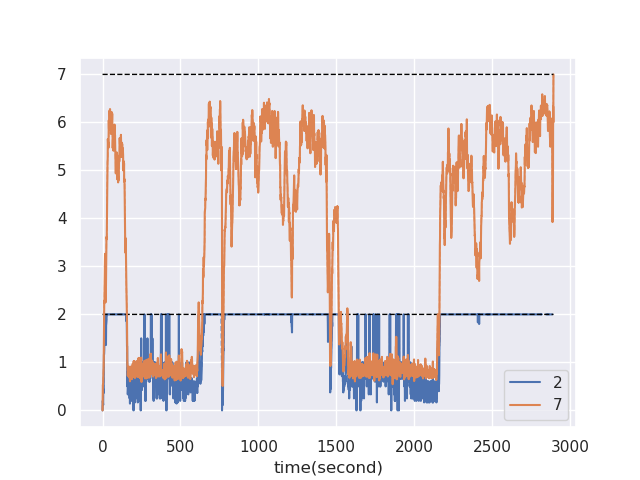
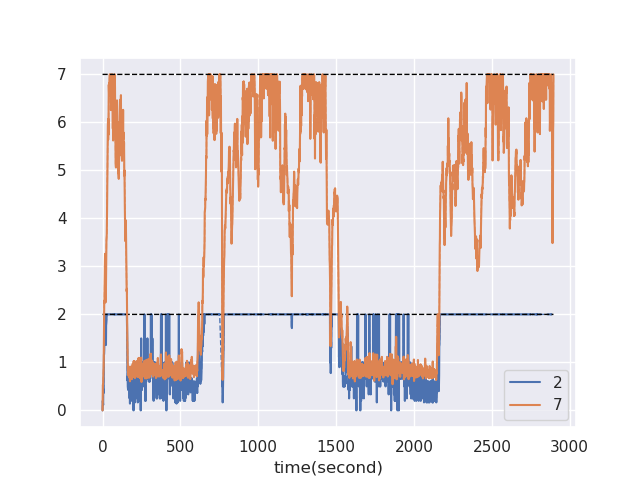
增加env中avoid_more_than_threshold

diff --git a/elegantrl/envs/request_env_no_sim.py b/elegantrl/envs/request_env_no_sim.py
@@ -70,6 +70,7 @@ class RequestEnvNoSim:
         self.need_evaluate_env_correct = False
         # 测试阶段将该值置为true
         self.invalid_action_optim = False
+        self.avoid_more_than_threshold = False
         self.t = 0
         self.next_request_num = 0
         self.success_request_dic_key_is_end_time = {}
@@ -94,6 +95,20 @@ class RequestEnvNoSim:
             if index == 0:
                 if number_action[0] < len(self.active_request_group_by_remaining_time_list[0]):
                     number_action[0] = min(self.threshold, len(self.active_request_group_by_remaining_time_list[0]))
+        if self.avoid_more_than_threshold:
+            if np.sum(number_action) > self.threshold:
+                need_reduce_number = np.sum(number_action) - self.threshold
+                while need_reduce_number > 0:
+                    for index in range(len(number_action) - 1, -1, -1):
+                        if number_action[index] > 0:
+                            if number_action[index] > need_reduce_number:
+                                number_action[index] = number_action[index] - need_reduce_number
+                                need_reduce_number = 0
+                                break
+                            if number_action[index] < need_reduce_number:
+                                need_reduce_number -= number_action[index]
+                                number_action[index] = 0
+
         return number_action
 
     # 返回奖励值和下一个状态

diff --git a/elegantrl/train/my_demo_evaluate.py b/elegantrl/train/my_demo_evaluate.py
@@ -32,6 +32,7 @@ class RequestEnvNoSimWrapper():
         self.if_discrete = False
         self.env.more_than_threshold_penalty_scale = more_than_threshold_penalty_scale
         self.env.invalid_action_optim = True
+        self.env.avoid_more_than_threshold = True
 
     def reset(self):
         reset_state = np.asarray(self.env.reset(), dtype=np.float32) / self.env.threshold
